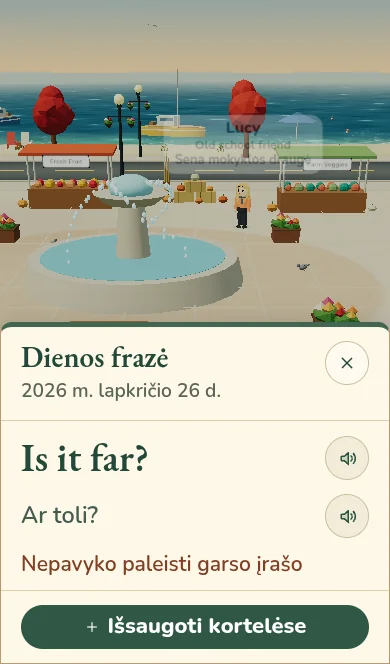
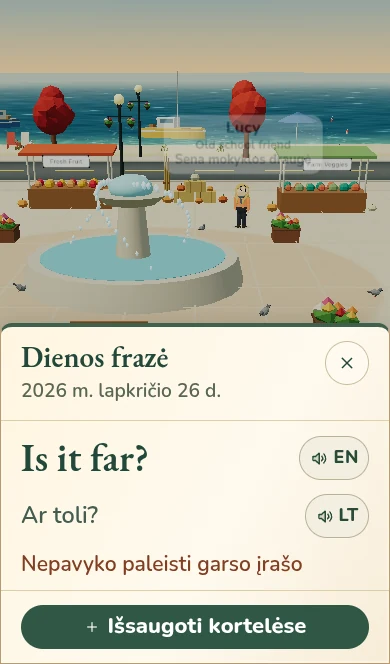
Document the second noticeboard review with phone and walking-camera captures

diff --git a/docs/plans/RESULT-noticeboard.md b/docs/plans/RESULT-noticeboard.md
@@ -2,6 +2,13 @@
 
 From Main Street, enter the farmers’ market at the square drop-off. The maple board is just to the right, at (32, −18.9), facing south. Its reading mark is (32, −17.3). On November 26, 2026 the sheet reads **Is it far? / Ar toli?**
 
+## Second-round art review
+
+- **From Main Street**, “Is it far?” fills the board in two lines of heavy dark-green type beneath a small “Phrase of the day” masthead. In Chromium, the question spans 213 × 169 pixels of the 256 × 256 face. The longer postings wrap to fit. All 14 were checked against the paper edges and for overlap between lines. [Walking camera](noticeboard-review/approach.webp)
+- **At the phone’s Read prompt**, the airport quest folds to its summary. The destination and distance stay visible, with the fountain and board in view. Tap the summary to see the quest details. Walking away and returning folds it for the next visit. [Phone approach](noticeboard-review/phone-approach.webp)
+- **On the open posting**, the larger English line comes first. Both sentences remain tappable, with a visible EN or LT code next to each speaker. Save spans the footer below the translation. [Phone posting](noticeboard-review/day-one.webp)
+- **On the board itself**, two brass pins hold a lightly weathered cream sheet with paper fibers and a turned corner. A narrow highlight picks out the glazing inside the mitered maple frame. All details share the existing atlas. [Board face at native resolution](noticeboard-review/face.webp)
+
 The English face and Lithuanian reading sheet use the same local-date posting. Approaching the square loads the existing 200-row Maple Harbor deck once. The board rotates through the 14 agreed IDs, refreshes on return or local midnight, and holds an open sheet steady between Hear and Save. Each sentence is a labeled speaker button. Reading and saving are silent. Save uses the existing Cards store and course mirror configuration. A card from an earlier encounter keeps its source and review schedule.
 
 ## Implementation
@@ -19,8 +26,9 @@ The English face and Lithuanian reading sheet use the same local-date posting. A
 ## Verification
 
 - TypeScript passed with `npx tsc --noEmit`. The production Vite build passed with the radio and named-file audio base configured.
-- The complete `npx vitest run` passed **1,696 tests across 123 files**.
-- The related Vitest run passed 96 tests across eight files with `TZ=America/New_York`. It covered the anchor and wrap dates, both daylight-saving transitions, a pending load across midnight, focus, cached revisits, and a missing posting.
+- The complete suite passed **1,696 tests across 123 files** with `npx vitest run --maxWorkers=1`.
+- The related Vitest run passed 113 tests across ten files with `TZ=America/New_York`. It covered the anchor and wrap dates, both daylight-saving transitions, a pending load across midnight, focus, cached revisits, a missing posting, sign fit and town HUD notes.
+- The production browser test walked out of Read range with the phone quest open and back into range. It checked that the quest folded again, both speaker codes were visible, and each accessible button name included its language and sentence.
 - Chromium walked from the drop-off to the mark and through both sides. Booting away from the square requested zero board decks or clips. First approach made one deck request. With the network offline, the English and Lithuanian stayed readable and the next posting opened from memory.
 - Both day-one speaker controls requested their exact files. Forced 404s left Save usable. Two taps made one card with an empty situation ID, source `Dienos frazė · TOM-102#S027`, box 1 and a due date of local midnight. Deleting it in Cards restored the Save action on return. When browser storage refused a write, the card remained available in memory and the sheet announced its session-only lifetime.
 - The production browser test checked Tab, Shift+Tab, Enter and return focus on the town prompt. It also used a simulated standard controller and silent audio fixtures. X opened the paper, the D-pad reached both speakers, Save and Close, A activated each selected action, and B returned to town. Replay switched the voice. The radio held during playback and resumed on exit. Starting a café conversation interrupted the board clip. Re-saving an already reviewed card preserved its exact stored fields.
@@ -31,14 +39,14 @@ The desktop Chromium software renderer ran at low game quality. At the same read
 
 | 390 × 664, A++, reduced motion | Scene draws, hidden → visible | Scene triangles, hidden → visible | Resident geometries / textures |
 | --- | --- | --- | --- |
-| Before first opening | 41 → 42 | 190,155 → 190,191 | 45 / 14 |
-| After ten exits | 42 → 43 | 190,195 → 190,231 | 45 / 14 |
+| Before first opening | 40 → 41 | 188,490 → 188,526 | 76 / 23 |
+| After ten exits | 41 → 42 | 188,827 → 188,863 | 76 / 23 |
 
 The prop adds one draw and 36 triangles in both samples. Its single 256 × 256 atlas is reused. The source deck is 54,367 bytes and the uncompressed production deck chunk is 49,604 bytes. Ten silent visits used one deck request, zero named-file requests, and ended with the voice idle. The clock uses one timeout to the next local midnight near the board. Leaving the area, hiding the tab or pinning the sheet clears it.
 
 ### Runtime review frames
 
-These are Maple Harbor EN/LT captures from Chromium 156 on Debian with touch emulation, low game quality, device pixel ratio 1 and reduced motion enabled. The dates and returning learner profile are fixtures. Each image opens at its captured CSS viewport size.
+These are Maple Harbor EN/LT captures from Chromium 156 on Debian with touch emulation, low game quality, device pixel ratio 1 and reduced motion enabled. The dates and returning learner profile are fixtures. The learner dismissed the town guide before the approach captures. Each image opens at its captured CSS viewport size.
 
 | 390 × 844 · A · first posting | 390 × 664 · A++ · failed translation audio |
 | --- | --- |
@@ -46,7 +54,7 @@ These are Maple Harbor EN/LT captures from Chromium 156 on Debian with touch emu
 | **844 × 390 · A++ · longer posting** | **1280 × 800 · A · paper beside the square board** |
 | [![Long posting](noticeboard-review/landscape.webp)](noticeboard-review/landscape.webp) | [![Reading in the square](noticeboard-review/desktop.webp)](noticeboard-review/desktop.webp) |
 
-[Main Street approach, 1280 × 800 · A](noticeboard-review/approach.webp) · [Saved check, 390 × 664 · A++](noticeboard-review/saved.webp) · [Resulting card, 390 × 664 · A++](noticeboard-review/card.webp)
+[Main Street approach, 1280 × 800 · A](noticeboard-review/approach.webp) · [Phone Read prompt, 390 × 844 · A](noticeboard-review/phone-approach.webp) · [Saved check, 390 × 664 · A++](noticeboard-review/saved.webp) · [Resulting card, 390 × 664 · A++](noticeboard-review/card.webp)
 
 ## Open review
 
